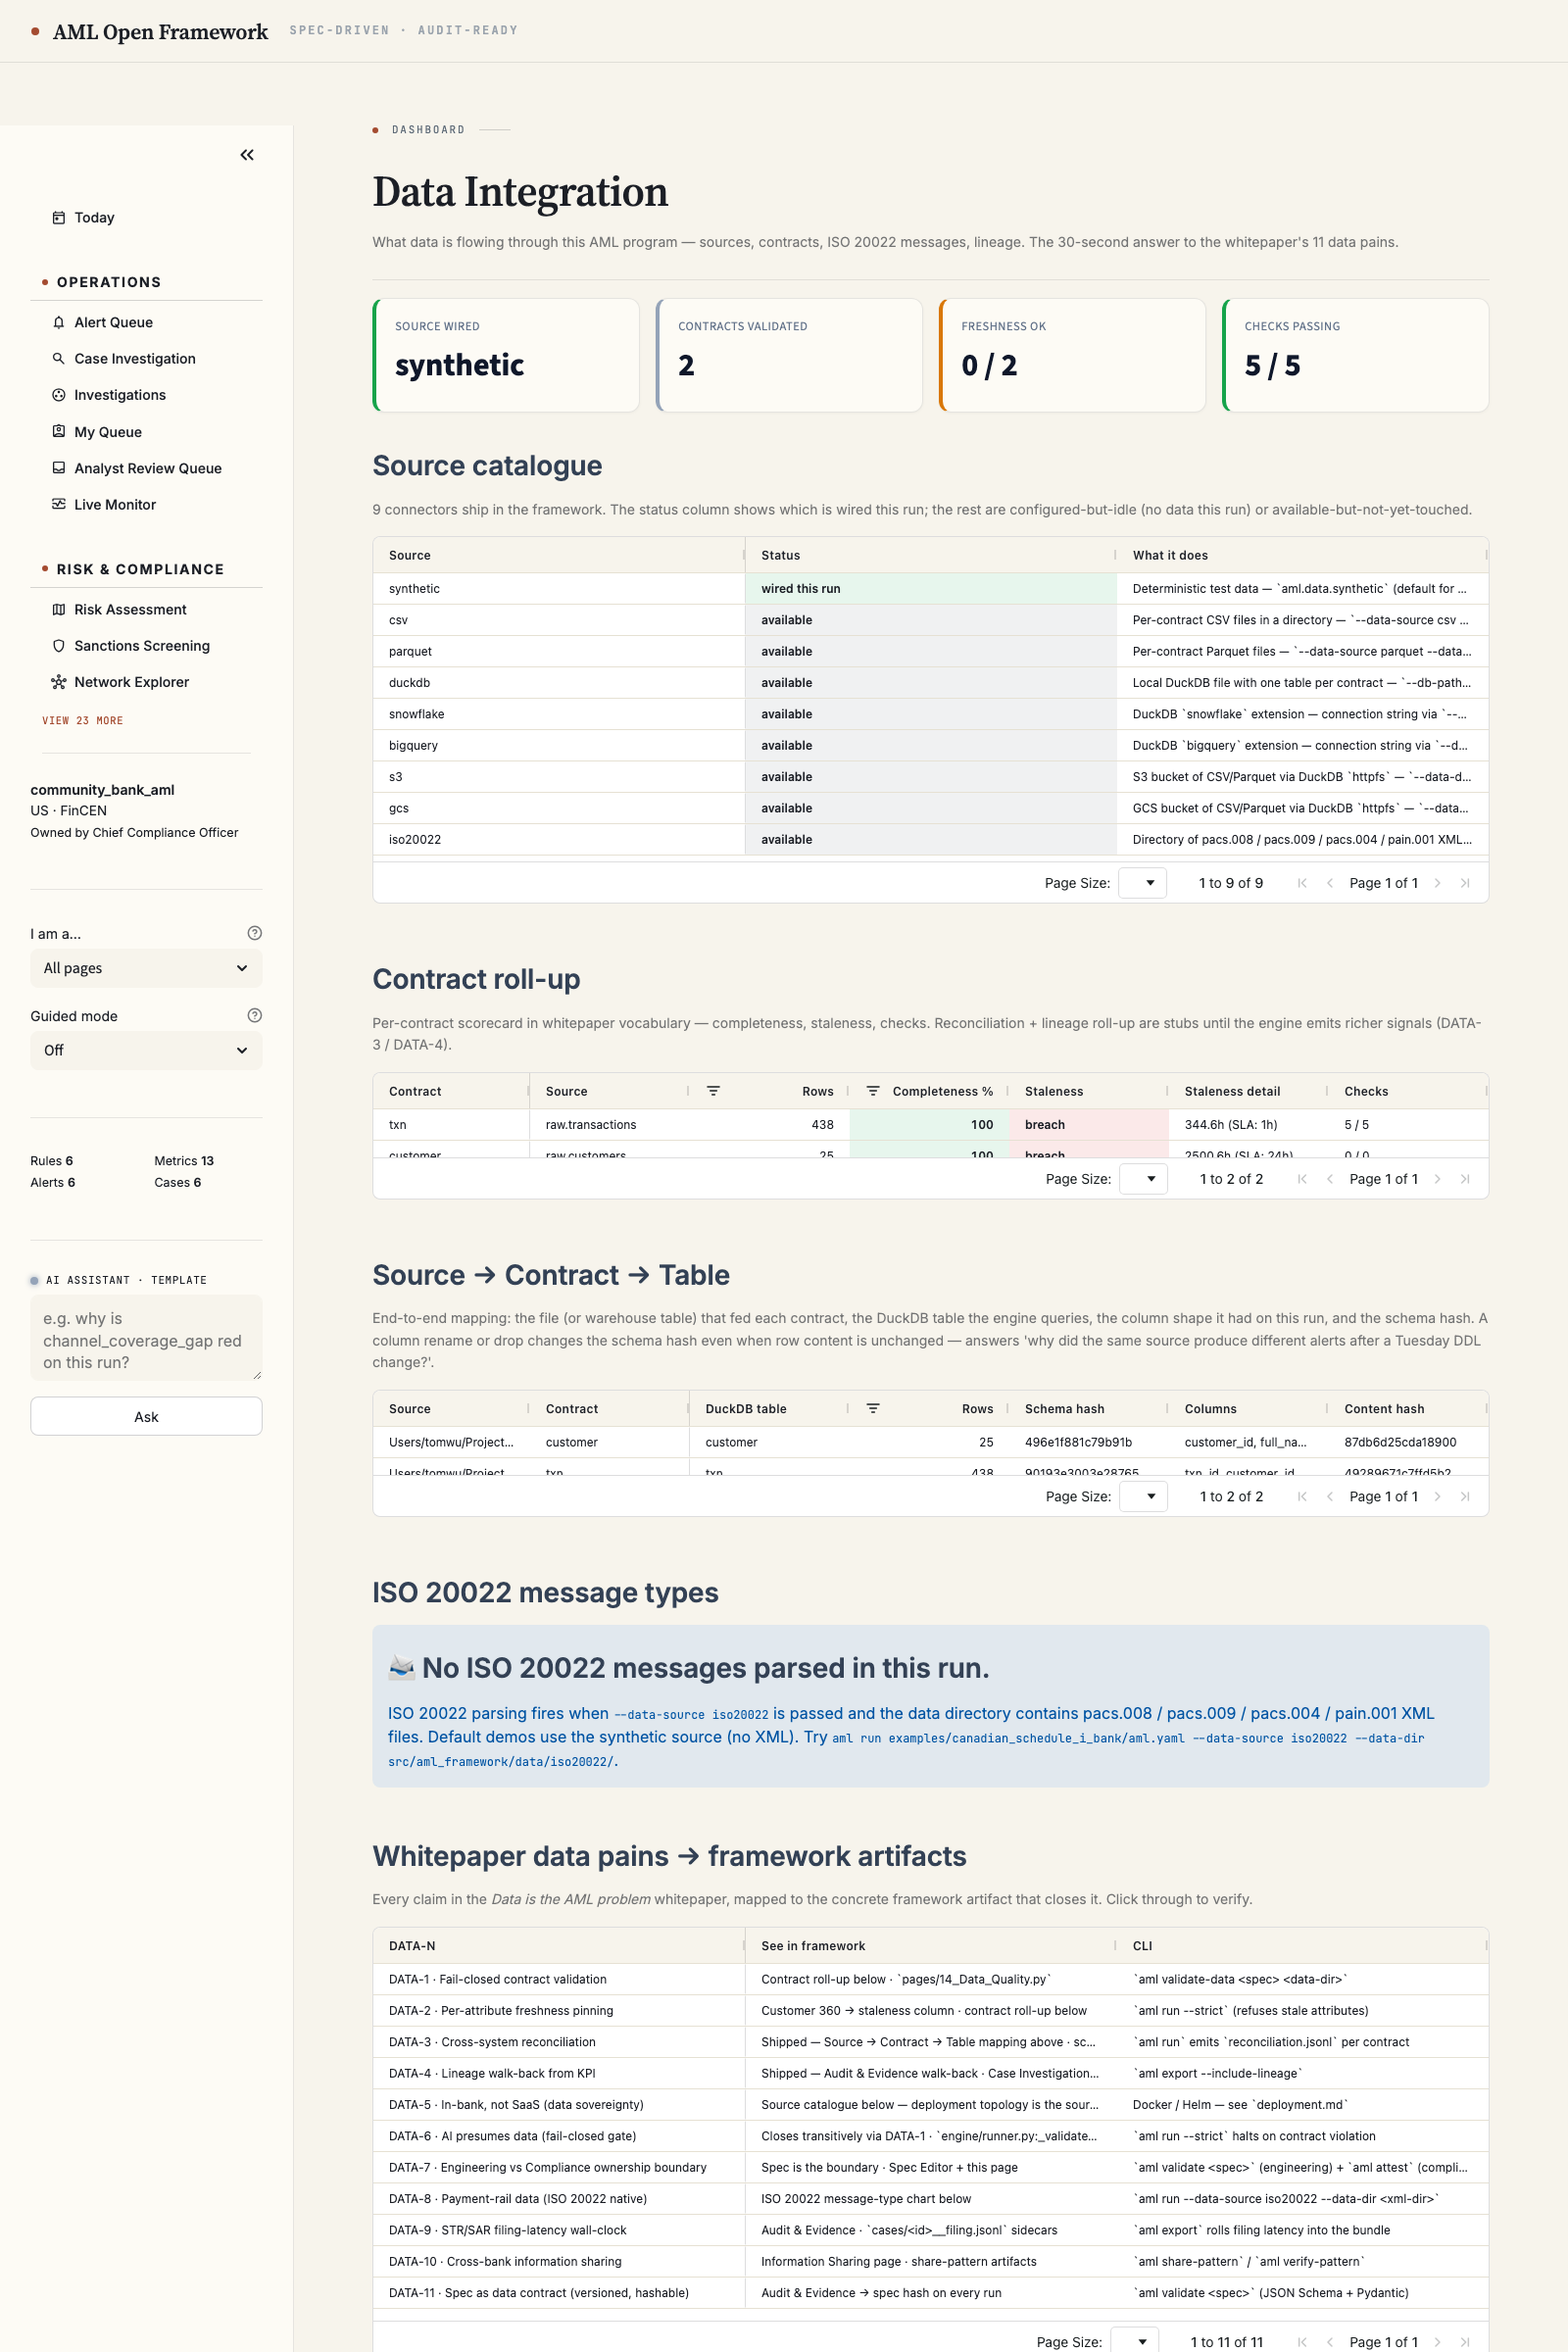
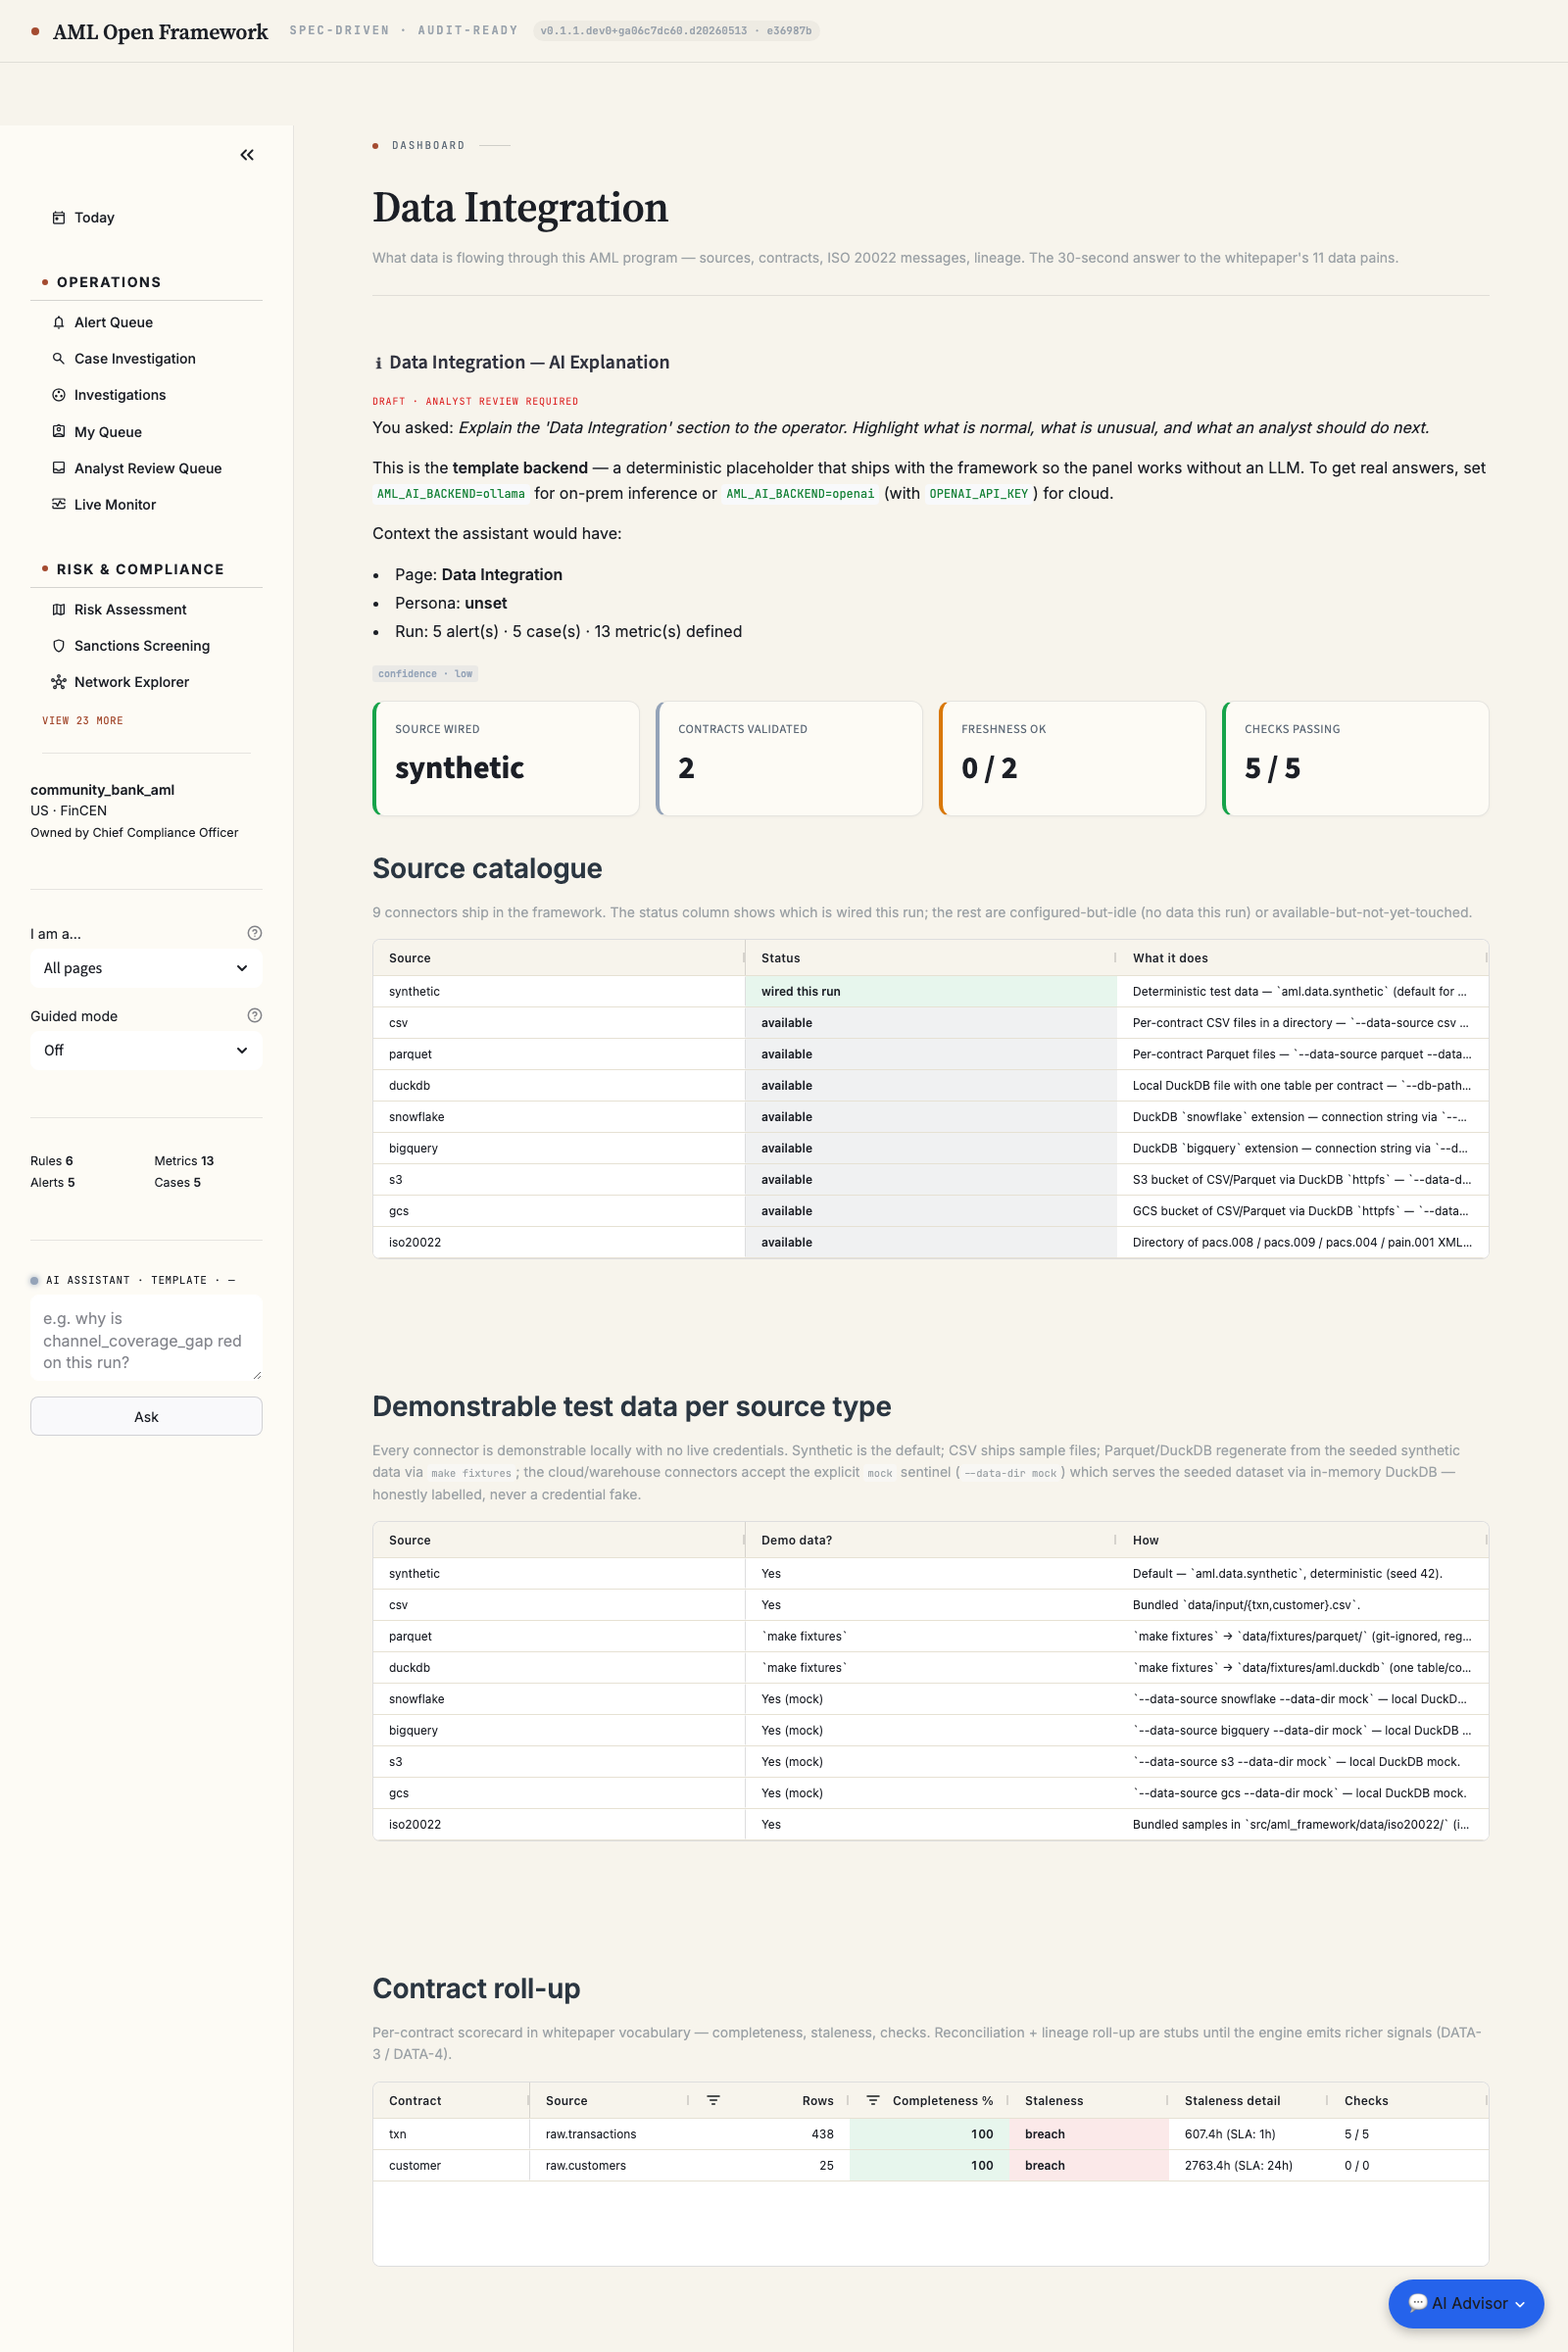
fix(dashboard): auto-size Data Integration tables to row count
The five Data Integration tables sized their AG Grid container with a
px estimate, height=min(35*rows+60, cap). That math undershot AG
Grid's real chrome (36px header + 32px/row + ~48px pagination
footer), so small tables (e.g. the 2-row Contract roll-up) clipped
their last rows and rendered an empty whitespace box below.

Add an opt-in auto_height to data_grid() that sets AG Grid
domLayout='autoHeight' (grid measures its own content; st_aggrid
resizes the component to match) and skips the pagination footer.
Switch all five Data Integration tables to it so they grow/shrink to
exactly the row count. Backward compatible — default stays fixed-
height + paginated for large/unbounded tables.

diff --git a/src/aml_framework/dashboard/data_grid.py b/src/aml_framework/dashboard/data_grid.py
@@ -114,6 +114,7 @@ def data_grid(
     drill_param: str | None = None,
     drill_column: str | None = None,
     height: int = 400,
+    auto_height: bool = False,
     fit_columns: bool = True,
     pagination: bool = True,
     page_size: int = 25,
@@ -148,7 +149,17 @@ def data_grid(
             (e.g. ``"pages/17_Customer_360.py"``).
         drill_param: query-param name (e.g. ``"customer_id"``).
         drill_column: column holding the drill value.
-        height: grid height in pixels.
+        height: grid height in pixels. Ignored when ``auto_height`` is
+            set (AG Grid sizes itself to its content instead).
+        auto_height: let AG Grid size its own height to the rendered
+            content (``domLayout='autoHeight'``) so the table grows or
+            shrinks to exactly the row count — no clipped last row, no
+            empty whitespace box from a px estimate that under/over-
+            shoots the real header + row + footer chrome. Implies
+            pagination off (these are small bounded tables; a pager
+            footer is needless chrome). Use for tables with a small,
+            bounded row count; leave off for large/unbounded tables
+            that should stay a fixed scroll viewport.
         fit_columns: auto-size columns to fit the grid width.
         pagination: enable pagination.
         page_size: rows per page when pagination is on.
@@ -200,7 +211,7 @@ def data_grid(
         if col in df.columns:
             builder.configure_column(col, pinned="right")
 
-    if pagination:
+    if pagination and not auto_height:
         builder.configure_pagination(paginationAutoPageSize=False, paginationPageSize=page_size)
 
     if drill_target and drill_param and drill_column:
@@ -213,6 +224,12 @@ def data_grid(
     # palette.
     grid_options["headerHeight"] = 36
     grid_options["rowHeight"] = 32
+    if auto_height:
+        # AG Grid measures its own content (header + every row) and
+        # st_aggrid resizes the component to match. This replaces a
+        # px estimate that under-shot the real chrome and clipped the
+        # last row(s) for small tables.
+        grid_options["domLayout"] = "autoHeight"
 
     response = AgGrid(
         df,

diff --git a/tests/test_dashboard_runtime_helpers.py b/tests/test_dashboard_runtime_helpers.py
@@ -215,3 +215,33 @@ class TestDataGridRuntime:
 
         assert st.session_state["selected_customer_id"] == "C-7"
         assert switched == ["pages/17_Customer_360.py"]
+
+    def test_data_grid_auto_height_sets_dom_layout_and_skips_pagination(self, monkeypatch):
+        fake_aggrid = _install_aggrid(monkeypatch, {"selected_rows": []})
+        st = SimpleNamespace(session_state={}, caption=lambda text: None)
+        mod = _reload_with_streamlit(monkeypatch, "aml_framework.dashboard.data_grid", st)
+
+        mod.data_grid(
+            FakeInputFrame(columns=["Contract", "Source"]),
+            key="rollup",
+            auto_height=True,
+        )
+
+        grid_options = fake_aggrid.last_call["kwargs"]["gridOptions"]
+        assert grid_options["domLayout"] == "autoHeight"
+        # autoHeight implies no pagination footer — that chrome is part
+        # of what the px estimate clipped on small tables.
+        kinds = [call[0] for call in FakeGridOptionsBuilder.last.calls]
+        assert "pagination" not in kinds
+
+    def test_data_grid_default_is_fixed_height_and_paginated(self, monkeypatch):
+        fake_aggrid = _install_aggrid(monkeypatch, {"selected_rows": []})
+        st = SimpleNamespace(session_state={}, caption=lambda text: None)
+        mod = _reload_with_streamlit(monkeypatch, "aml_framework.dashboard.data_grid", st)
+
+        mod.data_grid(FakeInputFrame(columns=["a", "b"]), key="default")
+
+        grid_options = fake_aggrid.last_call["kwargs"]["gridOptions"]
+        assert "domLayout" not in grid_options
+        kinds = [call[0] for call in FakeGridOptionsBuilder.last.calls]
+        assert "pagination" in kinds

diff --git a/src/aml_framework/dashboard/pages/30_Data_Integration.py b/src/aml_framework/dashboard/pages/30_Data_Integration.py
@@ -345,7 +345,7 @@ data_grid(
     key="data_integration_source_catalogue",
     palette_cols={"Status": SOURCE_STATUS_PALETTE},
     pinned_left=["Source"],
-    height=min(35 * len(catalogue_rows) + 60, 400),
+    auto_height=True,
 )
 
 st.markdown("<br>", unsafe_allow_html=True)
@@ -407,7 +407,7 @@ data_grid(
     pd.DataFrame(demo_rows),
     key="data_integration_demo_data",
     pinned_left=["Source"],
-    height=min(35 * len(demo_rows) + 60, 400),
+    auto_height=True,
 )
 
 st.markdown("<br>", unsafe_allow_html=True)
@@ -452,7 +452,7 @@ data_grid(
     gradient_low=80.0,
     gradient_high=99.0,
     pinned_left=["Contract"],
-    height=min(35 * len(overview) + 60, 320),
+    auto_height=True,
 )
 
 st.markdown("<br>", unsafe_allow_html=True)
@@ -496,7 +496,7 @@ if _input_manifest_path.exists():
             pd.DataFrame(_mapping_rows),
             key="data_integration_source_mapping",
             pinned_left=["Source", "Contract"],
-            height=min(35 * len(_mapping_rows) + 60, 320),
+            auto_height=True,
         )
     else:
         empty_state(
@@ -611,7 +611,7 @@ data_grid(
     pd.DataFrame(DATA_N_MAP),
     key="data_integration_data_n_map",
     pinned_left=["DATA-N"],
-    height=min(35 * len(DATA_N_MAP) + 60, 460),
+    auto_height=True,
 )
 
 # ---------------------------------------------------------------------------

diff --git a/tests/test_dashboard_data_integration_pr_c.py b/tests/test_dashboard_data_integration_pr_c.py
@@ -68,3 +68,25 @@ class TestVolumeByChannelSection:
         # Must fail soft when the wired source has no channel column.
         b = _body()
         assert "No transaction channel data" in b
+
+
+class TestTablesAutoSize:
+    """Every table on the page must size to its row count, not a px
+    estimate. The old `height=min(35*len+60, cap)` math under-shot AG
+    Grid's real chrome (header + rows + pagination footer), clipping
+    the last rows and leaving an empty whitespace box on small tables.
+    """
+
+    def test_no_brittle_height_estimate_remains(self):
+        b = _body()
+        assert "35 * len(" not in b, (
+            "px-estimate table height regressed — use data_grid(auto_height=True)"
+        )
+
+    def test_every_data_grid_uses_auto_height(self):
+        b = _body()
+        # All five tables (catalogue / demo / rollup / source-mapping /
+        # data-N map) must opt into AG Grid autoHeight.
+        assert b.count("data_grid(") == b.count("auto_height=True"), (
+            "every data_grid() on the Data Integration page must pass auto_height=True"
+        )
